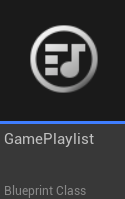
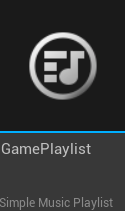
Updated doc to 1.6

diff --git a/README.md b/README.md
@@ -1,5 +1,4 @@
-# Simple Music Player (Version 1.0)
-### (Documentation for version 1.6 is in progress)
+# Simple Music Player (Version 1.6)
 
 A plugin for Unreal Engine designed to provide a straightforward background music player. With this plugin, you can trigger music tracks from anywhere in Blueprints, offering a seamless audio experience for your game.
 
@@ -9,7 +8,7 @@ A plugin for Unreal Engine designed to provide a straightforward background musi
 - Playlist support
 - Shuffle functionality
 - Customizable track duration
-- Smooth fade-out transitions between tracks
+- Smooth fade-out\crossfade transitions between tracks
 
 The **Simple Music Player** includes three primary nodes:
 - **Play Track**: Plays a single track
@@ -18,26 +17,36 @@ The **Simple Music Player** includes three primary nodes:
 
 ---
 
+# [> Quick Start](placeholder)
+
+---
+
+# Node Description
+
+---
+
 ## Play Track
 
 ![Play Track Node](images/play_track_node.png)
 
-Designed to play a single track using a `SimpleMusicTrack` Blueprint.
+Designed to play a single track using a `Simple Music Track`.
 
 ### Node Inputs
-- **Track Class**: Assign a Blueprint created from the `SimpleMusicTrack` class.
+- **Track Class**: Assign track created from the menu `Audio -> SimpleMusicPlayer -> Simple Music Track`.
 - **Loop**: If enabled, the track loops indefinitely.
 - **Transition**: If enabled, the track continues playing across map/level changes without restarting.
+- **Cross Fade**: If enabled, the track starts to fade in while the previous one starts to fade out.
+- **Cross Fade Time**: Specifies the duration (in seconds) for the crossfade transition to complete.
 - **Force Play**: If enabled, the track will restarts from the beginning when node executed, even if `Transition` is active.
 
-### Creating a SimpleMusicTrack Blueprint
-The `SimpleMusicTrack` Blueprint can be found here:  
+### Creating a Simple Music Track
+The `Simple Music Track` can be found here:  
 ![SimpleMusicTrack](images/simplemusictrack.png)
 
-A newly created `SimpleMusicTrack` Blueprint has this thumbnail:  
+A newly created `Simple Music Track` has this thumbnail:  
 ![SimpleMusicTrack Thumbnail](images/simplemusictrack_thumbnail.png)
 
-#### SimpleMusicTrack Structure and Options
+#### Simple Music Track Structure and Options
 ![SimpleMusicTrack Structure](images/simplemusictrack_structure.png)
 
 - **Audio File**: Select the desired Wave asset.
@@ -54,35 +63,40 @@ A newly created `SimpleMusicTrack` Blueprint has this thumbnail:
 
 ![Play Playlist Node](images/play_playlist_node.png)
 
-Designed to play a sequence of tracks from a `SimpleMusicPlaylist` Blueprint.
+Designed to play a sequence of tracks from a `Simple Music Playlist`.
 
 ### Node Inputs
-- **Track Class**: Assign a Blueprint created from the `SimpleMusicPlaylist` class.
+- **Playlist**: Assign a playlist created through menu `Audio -> SimpleMusicPlayer -> Simple Music Playlist`
 - **Transition**: If enabled, the playlist continues across map/level changes without restarting.
-- **Time Per Track**: Default duration (in seconds) for each track in the playlist. Applies to tracks without a custom duration set in the `Optional Info` section.
-- **Time To Fade**: Percentage of the track’s duration (e.g., 0.02 = 2%) at which fading begins when switching tracks. For example, a 2-minute track with 2% fade starts fading at 1:56. Applies to tracks without a custom fade out duration set in the `Optional Info` section.
-- **Shuffle**: If enabled, tracks play in random order.
+- **Cross Fade**: If enabled, the track starts to fade in while the previous one starts to fade out.
+- **Cross Fade Time**: Specifies the duration (in seconds) for the crossfade transition to complete.
 - **Force Play**: If enabled, the playlist restarts from the beginning when node executed, even if `Transition` is active.
 
-### Creating a SimpleMusicPlaylist Blueprint
-The `SimpleMusicPlaylist` Blueprint can be found here:  
+### Creating a Simple Music Playlist
+The `Simple Music Playlist` can be found here:  
 ![SimpleMusicPlaylist](images/simplemusicplaylist.png)
 
-A newly created `SimpleMusicPlaylist` Blueprint has this thumbnail:  
+A newly created `Simple Music Playlist` has this thumbnail:  
 ![SimpleMusicPlaylist Thumbnail](images/simplemusicplaylist_thumbnail.png)
 
-#### SimpleMusicPlaylist Structure and Options
+#### Simple Music Playlist Structure and Options
 ![SimpleMusicPlaylist Structure](images/simplemusicplaylist_structure.png)
 
 - **Audio File**: Select the desired Wave asset.
 - **Optional Info**:
-  - **Time To Play**: Duration (in seconds) the track loops. Overrides the node’s `Time Per Track`.
-  - **Time To Fade Out**: Percentage of the track’s duration (e.g., 0.02 = 2%) at which fading begins. For example, a 2-minute track with 2% fade starts fading at 1:56.
   - **Preserve Position**: If enabled - during shuffle, this track retains its position in the playlist. Useful for ensuring a specific track (e.g., an intro) always plays first.
+  - **Time to Fade In**: Specifies the time (in seconds) for the track to fade in when it starts playing.
+  - **Time to Fade Out**: Specifies the duration (in seconds) for the track to fade out when transitioning to another track.
   - **Volume**: Set the playback volume (0.0 to 1.0).
   - **Base BPM**: Define the track’s base beats per minute.
   - **Max BPM**: Set the maximum BPM for variable speed playback.
+  - **Time To Play**: Duration (in seconds) the track loops.
 - **Sound Class**: Assign a Sound Class to each track from playlist for audio mixing.
+- **Fading Between Tracks**:
+  - **Default Time to Fade In**: Specifies the default duration (in seconds) for a track to fade in when it starts playing. This value can be overridden by the track's optional fade-in time setting.
+  - **Default Time to Fade Out**: Specifies the default duration (in seconds) for a track to fade out when transitioning to another track. This value can be overridden by the track's optional fade-out time setting.
+- **Shuffle**: Shuffles the tracks in the playlist.
+- **Default Play Time Per Track**: Specifies the default duration (in seconds) for each track to play. This value can be overridden by the track's optional 'Time To Play' setting.
 
 ---
 
@@ -94,6 +108,11 @@ Designed to play a single track using a standard Unreal Engine Sound Cue.
 **Note**: This mode does not support variable BPM.
 
 This is the simplest option, ideal for game jams or projects with minimal audio needs.
+
+- **Transition**: If enabled, the cue continues across map/level changes without restarting.
+- **Cross Fade**: If enabled, the cue starts to fade in while the previous one starts to fade out.
+- **Cross Fade Time**: Specifies the duration (in seconds) for the crossfade transition to complete.
+- **Force Play**: If enabled, the cue restarts from the beginning when node executed, even if `Transition` is active.
 
 ---
 
@@ -124,27 +143,26 @@ The `Transition` parameter ensures music persists across level or map changes wi
 The `OnTrackFinished` event triggers when a track completes or is stopped.  
 **Note**: Tracks set to loop indefinitely will not fire this event.
 
+## Events
+
+### On Track Finished
+Only works on non looped tracks
+
+![On Track Finished Event](images/on_track_finished_event.png) 
+
+### On Fade Finished
+Trigger when Fade In or Fade Out completed
+
+![On Fade Finished Event](images/on_fade_finished_event.png) 
+
+### On Cross Fade Finished
+Trigger when cross fade completed
+
+![On Cross Fade Finished Event](images/on_cross_fade_finished_event.png) 
+
 ---
 
 ## Additional Nodes
-
-### Set Max BPM
-Sets the maximum BPM for the currently playing track.
-
-![Set Max BPM Node](images/setmaxbpm.png)
-
-
-### Set New BPM Normalized
-Adjusts BPM in real-time between `Base BPM` and `Max BPM` using a normalized input (0.0 to 1.0). Applies to the current track (`Play Track`) or all tracks in the playlist (`Play Playlist`).
-
-![Set New BPM Normalized Node](images/setnewbpmnormalized.png)
-
-
-### Set New BPM
-Immediately sets the BPM to a specific value for the current track.
-
-![Set New BPM Node](images/setnewbpm.png)
-
 
 ### Set Volume
 Adjusts the volume of the currently playing track.
@@ -166,6 +184,45 @@ Resumes paused music playback.
 ### Stop
 Stops the current music playback entirely.
 
-![Stop Node](images/stop.png)   
+![Stop Node](images/stop.png)  
+
+### Set Max BPM
+Sets the maximum BPM for the currently playing track.
+
+![Set Max BPM Node](images/setmaxbpm.png)
+
+
+### Set New BPM
+Immediately sets the BPM to a specific value for the current track.
+
+![Set New BPM Node](images/setnewbpm.png)
+
+
+### Set New BPM Normalized
+Adjusts BPM in real-time between `Base BPM` and `Max BPM` using a normalized input (0.0 to 1.0). Applies to the **CURRENT** track (`Play Track`) or in  **CURRENT** track in the playlist (`Play Playlist`).
+
+![Set New BPM Normalized Node](images/setnewbpmnormalized.png)
+
+
+### Set New Permanent BPM Normalized
+Adjusts BPM in real-time between `Base BPM` and `Max BPM` using a normalized input (0.0 to 1.0). Applies to the track (`Play Track`) or tracks in the playlist (`Play Playlist`) and any future tracks.
+
+![Set New Permanent BPM Normalized Node](images/set_new_permanent_normalized_bpm_node.png) 
+
+
+### Play Next
+Play next track in current playlist
+
+![Play Next Node](images/play_next_node.png) 
+
+### Fade Out
+Fade out current track. Fade out input in seconds
+
+![Fade Out Node](images/fade_out_node.png) 
+
+### Fade In
+Fade In current track. Fade in input in seconds
+
+![Fade In Node](images/fade_in_node.png) 
 
 ---
